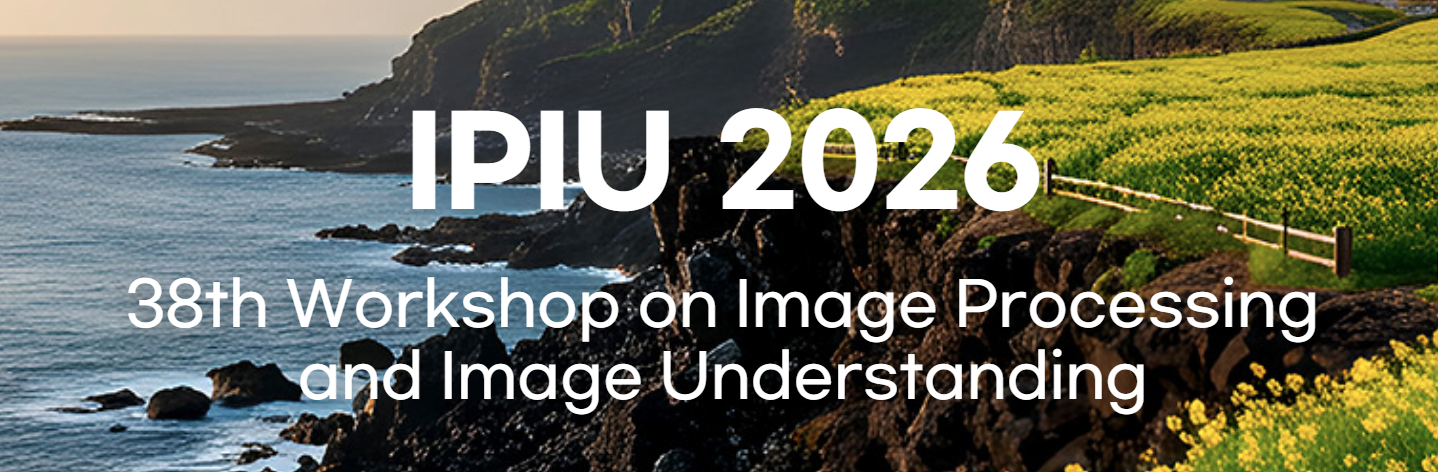
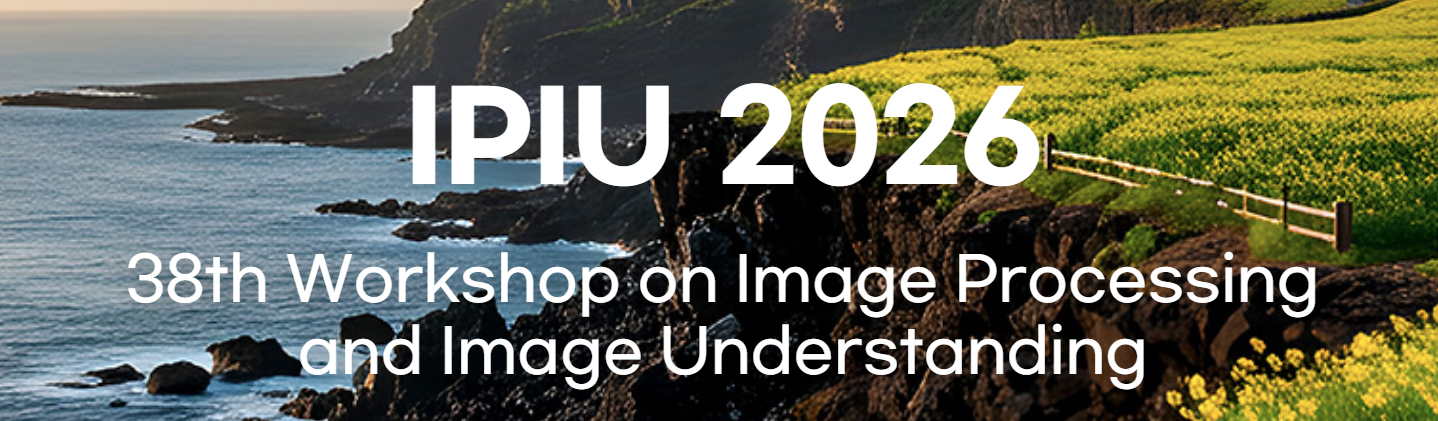
new update

diff --git a/_layouts/home.html b/_layouts/home.html
@@ -135,22 +135,6 @@
       }, { passive: true });
     }
 
-    // Section entrance animation (only for sections below the fold on initial load)
-    var animateObserver = new IntersectionObserver(function (entries) {
-      entries.forEach(function (entry) {
-        if (entry.isIntersecting) {
-          entry.target.classList.add('section-visible');
-          animateObserver.unobserve(entry.target);
-        }
-      });
-    }, { threshold: 0.05 });
-
-    document.querySelectorAll('.container').forEach(function (el) {
-      if (el.getBoundingClientRect().top > window.innerHeight) {
-        el.classList.add('section-animate');
-        animateObserver.observe(el);
-      }
-    });
   </script>
 
 </body>

diff --git a/_sass/base.scss b/_sass/base.scss
@@ -515,19 +515,3 @@ button.collapsible.active h3::before {
   background: linear-gradient(90deg, #66a3ff, #ce93d8);
 }
 
-// Section entrance animation
-.section-animate {
-  opacity: 0;
-  transform: translateY(20px);
-  transition: opacity 0.55s ease, transform 0.55s ease;
-
-  @media print {
-    opacity: 1 !important;
-    transform: none !important;
-  }
-}
-
-.section-animate.section-visible {
-  opacity: 1;
-  transform: translateY(0);
-}
